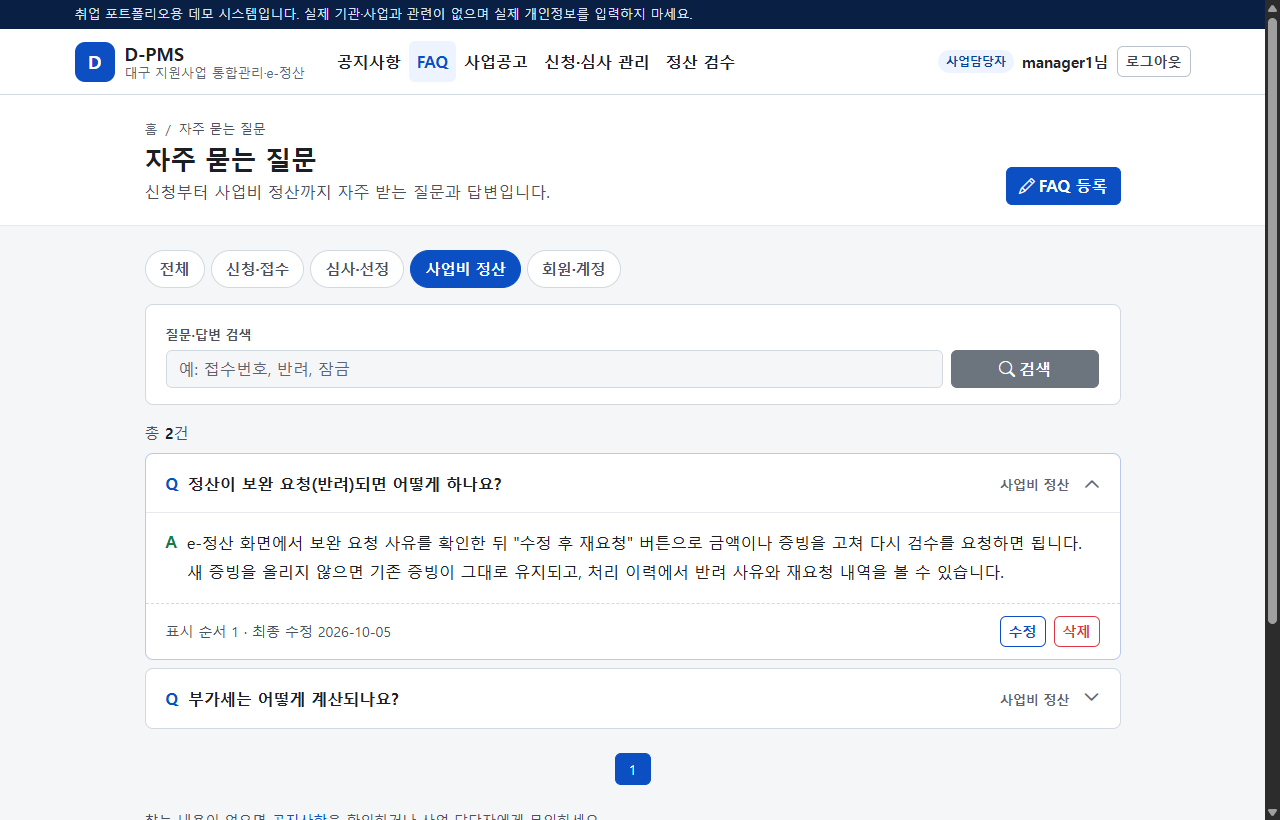
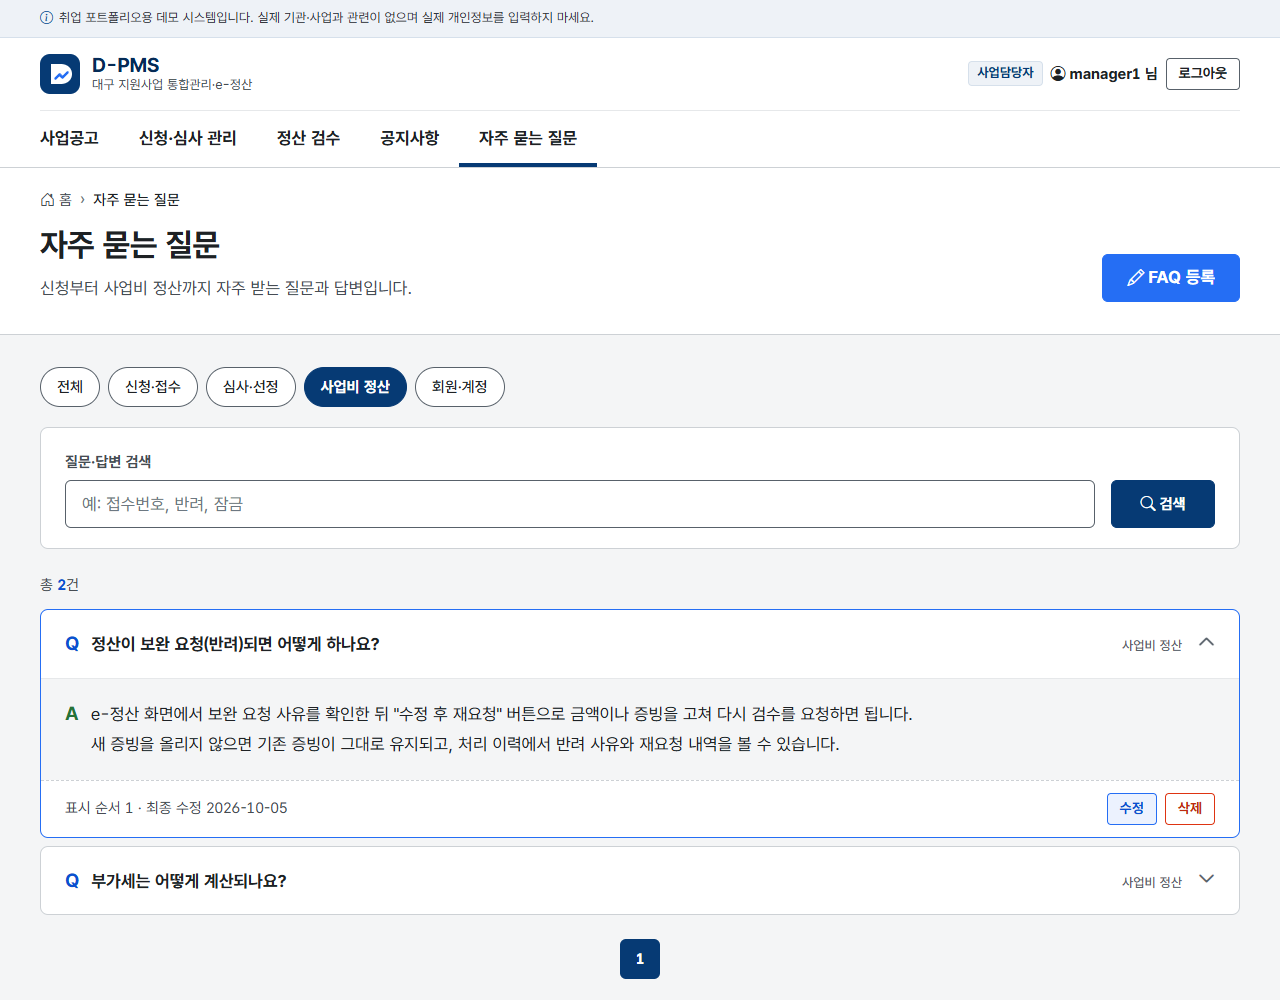
docs: 7차 스프린트 문서와 README·CHANGELOG 최신화 (0.7.0)
- SPRINT7 문서: KRDS 토큰 적용 방식(원본 값 → 용도 이름 → Bootstrap 변수), 글꼴 출처·라이선스, 모바일 카드형 원리, 정적 리소스 캐시, 명도 대비 수치, 검증 결과
- README: 새 화면 캡처 4장과 모바일 캡처, 화면 기준·출처 표기, 테스트 156건, 문서 목록
- CHANGELOG 0.7.0, 버전 0.7.0-SNAPSHOT
- dpms.css 주석의 이전 포커스 대비 값을 계산값(1.7:1)으로 정정

diff --git a/src/main/resources/static/css/dpms.css b/src/main/resources/static/css/dpms.css
@@ -220,7 +220,7 @@ a {
     color: #fff;
 }
 
-/* 포커스 표시: 흰 배경 대비 6:1 이상인 진한 파랑. 이전의 노란색(#ffb800)은 흰 배경에서 1.9:1 이라 잘 보이지 않았다 */
+/* 포커스 표시: 흰 배경 대비 6.8:1 인 진한 파랑. 이전의 노란색(#ffb800)은 흰 배경에서 1.7:1 이라 잘 보이지 않았다 */
 :focus-visible,
 .btn:focus-visible,
 .form-check-input:focus-visible,

diff --git a/docs/SPRINT7_DESIGN_RENEWAL.md b/docs/SPRINT7_DESIGN_RENEWAL.md
@@ -1,0 +1,143 @@
+# 7차 스프린트 — 화면 디자인 개편 (KRDS 기준)
+
+작업일: 2026-10-23 · 브랜치: `feature/sprint7-design-renewal` · 이전 문서: [6차 스프린트](SPRINT6_MYSQL_COMMON_COMPONENTS.md)
+
+## 1. 범위
+
+6차까지는 기능과 실행환경을 다뤘고, 화면은 Bootstrap 기본 모양에 가까웠다. 실제 화면을 데스크톱·모바일로 띄워 보니 문제가 세 가지였다.
+
+1. 공공 서비스처럼 보이지 않았다. 모든 영역이 같은 흰 카드라 어디를 먼저 봐야 할지 흐렸다.
+2. CSS 에 `Pretendard GOV` 를 적어 두었지만 글꼴 파일이 없어 실제로는 맑은 고딕으로 보였다.
+3. 모바일에서 목록 표가 화면 폭의 두 배였다(신청 목록 717px / 화면 350px). 상태와 버튼 칸이 화면 밖에 있었다.
+
+이번에는 KRDS(대한민국 정부 디자인 시스템) 기준으로 색·글자·컴포넌트 크기를 바꾸고, 메인·목록·상세·입력 화면을 다시 배치했다. 업무 로직·URL·DB 는 바꾸지 않았다.
+
+다크 모드·고대비 모드, 화면낭독기 실사용 점검은 이번 범위가 아니다.
+
+## 2. 바뀐 것
+
+| 영역 | 이전 | 이번 | 검증 |
+| :--- | :--- | :--- | :--- |
+| 디자인 기준 | Bootstrap 기본 + 색 일부 | KRDS 디자인 토큰 (색 단계, 본문 17px, 버튼 32·40·48·56px, 입력칸 48px) | 70장 화면 점검 |
+| 글꼴 | CSS 에만 이름 (파일 없음 → 맑은 고딕) | KRDS 배포본의 Pretendard GOV 서브셋 3종 내장 | 브라우저에서 3종 로드 확인 |
+| 헤더 | 한 줄 (로고·메뉴·사용자) | 로고 줄 + 주 메뉴 줄, 지금 메뉴 아래 4px 막대, 하위 메뉴도 `aria-current` | `currentMenuIsMarked` |
+| 메인 | 남색 배너, 숫자 카드, 도넛 차트(Chart.js) | 공고 검색창, 처리할 일·현황 카드, 진행 절차 4단계, 분야별 예산 막대 | `DashboardAndCodeIntegrationTest` |
+| 목록 | 모바일에서 표가 가로로 넘침 | 768px 미만에서 카드형, 검색 조건 초기화 버튼 | 390px 가로 넘침 0 |
+| 상세 | 항목·값 4칸 표 | 본문 + 오른쪽 요약 카드, 신청 과제 진행 단계 | 화면 점검 |
+| 입력 | 금액 숫자만 (`150000000`) | 한글 단위(`1억 5,000만원`), 한도 초과·음수 경고, 첨부 크기 안내 | 실제 입력 확인 |
+| e-정산 | 숫자 카드 4개, 반려 사유가 모바일에서 숨음 | 금액 상자 + 집행률 막대, 반려 사유·이력을 거래처 칸 안으로, 승인 확인 창 | `settlementApprovalAsksConfirmation` |
+| 접근성 | 포커스 노란색 1.7:1, 입력칸 테두리 1.4:1 | 포커스 6.8:1, 입력칸 테두리 6.3:1 | 대비 계산 (7절) |
+| 정적 리소스 | 모든 응답 `no-store` → 화면마다 다시 받음 | 내용 해시 주소 + 1년 캐시 | `staticResourcesAreVersionedAndCached` |
+| 의존성 | Chart.js WebJar | 제거 | — |
+
+테스트 153건 → 156건.
+
+## 3. KRDS 를 어떻게 적용했나
+
+KRDS 는 공공 서비스용 "표준 자재 목록"에 가깝다. 이 프로젝트는 Bootstrap 이라는 골조는 그대로 두고, 색·글자 크기·버튼 높이 같은 규격만 KRDS 값으로 바꿨다.
+
+```text
+krds-uiux 1.1.0 (npm)                         dpms.css
+--krds-color-light-primary-50  #256ef4   ─▶   --krds-primary-50 ─▶ --dp-primary    ─▶ .btn-primary
+--krds-color-light-gray-60     #58616a   ─▶   --krds-gray-60    ─▶ --dp-line-input ─▶ .form-control 테두리
+button size-height-6 (4rem = 40px)       ─▶   .btn { min-height: 2.5rem }
+```
+
+- 변수는 3단이다: KRDS 원본 값(`--krds-*`) → 용도 이름(`--dp-text`, `--dp-primary`) → Bootstrap 변수(`--bs-*`). 화면 CSS 는 용도 이름만 쓴다. 색을 바꿀 때 한 곳만 고친다.
+- KRDS 는 html 글자 크기를 10px 로 두고 rem 을 쓴다(1.7rem = 17px). Bootstrap 은 16px 기준이라 px 로 환산해 옮겼다(17px = 1.0625rem).
+- KRDS HTML 컴포넌트(CSS·JS)를 통째로 쓰지 않았다. Bootstrap 과 클래스·초기화 규칙이 겹치고, 화면 템플릿 26개를 모두 다시 짜야 한다. 값(토큰)만 가져오면 기존 마크업과 테스트를 유지하면서 모양을 맞출 수 있다.
+- KRDS 의 "공식 누리집 배너"와 정부 상징은 쓰지 않았다. 이 시스템은 공식 누리집이 아니므로 데모 안내 띠를 그대로 둔다.
+- 배포본은 npm 레지스트리의 SHA-512 무결성 값과 대조한 뒤 썼다. KRDS 자료는 저작권법 제24조의2(공공저작물 자유이용)에 따라 출처를 밝히고 쓴다 → [`licenses/krds-NOTICE.txt`](../licenses/krds-NOTICE.txt), 화면 푸터, README.
+
+## 4. 글꼴
+
+| 항목 | 내용 |
+| :--- | :--- |
+| 파일 | `static/fonts/pretendard-gov/PretendardGOV-{Regular,Medium,Bold}.subset.woff2` (각 약 260KB) |
+| 출처 | KRDS 배포본의 서브셋을 고치지 않고 사용. 한글 2,780자 (완성형 2,350자 전부 포함, 프로젝트 소스에 쓰인 한글 540자 모두 있음) |
+| 라이선스 | SIL OFL 1.1 ([`licenses/pretendard-gov-OFL-1.1.txt`](../licenses/pretendard-gov-OFL-1.1.txt), 글꼴 파일 안에도 같은 정보) |
+| 불러오기 | `@font-face` + `font-display: swap`, 본문(Regular)은 `<link rel="preload">` 로 먼저 받음 |
+| 없는 글자 | 서브셋에 없는 드문 한글은 시스템 글꼴로 보인다 |
+
+CDN 을 쓰지 않은 이유는 Bootstrap 을 WebJar 로 넣은 이유와 같다. 인터넷이 막힌 망에서도 깨지지 않고, CSP `font-src 'self'` 를 그대로 둘 수 있다. 보안 설정의 비로그인 허용 경로에 `/fonts/**` 를 추가했다.
+
+## 5. 화면별
+
+### 메인
+
+- 첫 화면은 검색창(사업공고 검색어로 이동)과 바로가기. 오른쪽 카드는 로그인하면 역할별 처리할 일, 로그인 전에는 전체 현황이다.
+- 분야별 예산은 도넛 → 막대. 범주 5개의 크기 비교는 길이(막대)가 각도(도넛)보다 정확하다. 금액은 글자로 함께 쓰고 막대는 화면낭독기에서 숨긴다. 차트가 없어져 Chart.js 의존성을 뺐다.
+
+### 목록 — 모바일 카드형
+
+```html
+<td data-label="신청 지원금" class="text-end">40,000,000원</td>
+```
+
+```css
+@media (max-width: 767.98px) {
+    .table-cards > tbody > tr > td[data-label]::before { content: attr(data-label); }   /* 항목명을 앞에 */
+    .table-cards > tbody > tr > td.cell-title { order: -1; }                             /* 제목을 맨 위로 */
+}
+```
+
+HTML 은 표 하나 그대로 두고 CSS 만으로 바꾼다. PC 화면과 모바일 화면을 따로 만들지 않으므로 권한·상태 조건이 한 곳에만 있다. 신청 목록은 공고명 칸을 과제명 아래 보조 글자로 합쳐, PC 에서 과제명이 한 줄에 4~5글자씩 꺾이던 문제도 고쳤다.
+
+### 상세·입력
+
+- 본문 + 오른쪽 요약 카드 (공고: 신청 안내, 신청 과제: 진행 단계, 입력 화면: 작성 안내).
+- 진행 단계: 심사탈락은 접수·서류·심사 어느 단계에서도 올 수 있다(`ApplicationStatus`). 상태 이력이 없어 어느 단계에서 탈락했는지 알 수 없으므로, 탈락 과제는 접수완료만 완료로 표시한다.
+- 금액 안내(`data-money`): `150000000` → `1억 5,000만원`. 최대 지원금 초과, 자부담금 음수, 정산 잔액 초과는 붉은 글씨로 미리 알린다. 서버 검증은 그대로이고 화면 안내만 추가했다.
+- 작성 안내 문구는 코드와 맞췄다. 예: 공고는 등록 즉시 접수중으로 게시되고(`AnnouncementServiceImpl`), 마감은 매일 자정 배치가 처리한다(`AnnouncementCloseScheduler`).
+
+### e-정산
+
+- 금액 4개를 한 상자로 묶고 집행률 막대(승인 파랑 + 검수 대기 주황)를 붙였다.
+- 반려 사유·처리 이력을 거래처 칸 안으로 옮겼다. 이전에는 768px 미만에서 숨는 칸에 있어 모바일 사용자는 반려 이유를 볼 수 없었다.
+- 승인은 되돌릴 수 없어 확인 창을 거친다. 집행 등록 모달은 닫으면 입력값을 비운다.
+
+## 6. 정적 리소스 캐시
+
+전에는 같은 책(Bootstrap 230KB)을 화면을 옮길 때마다 서점에서 새로 산 셈이었다. 이제는 책장에 1년 꽂아 두고, 개정판이 나오면 표지 번호(해시)가 바뀌어 새 책을 산다.
+
+| | 이전 | 이후 |
+| :--- | :--- | :--- |
+| CSS·JS·글꼴 응답 | `Cache-Control: no-cache, no-store` (Spring Security 기본값) | `max-age=31536000, public` |
+| 화면에 나가는 주소 | `/css/dpms.css` | `/css/dpms-<MD5>.css` (내용이 바뀌면 주소도 바뀜) |
+| CSS 안의 글꼴 주소 | — | Spring 이 해시 주소로 바꿔 내보냄 (`CssLinkResourceTransformer`) |
+| WebJars | `/webjars/bootstrap/dist/…` | `/webjars/bootstrap/5.3.3/dist/…` (버전이 주소에 들어감) |
+| 화면(HTML) | no-store | 그대로 no-store (로그인 화면이 공용 PC 에 남지 않게) |
+
+- 설정은 `application.yml` 의 `spring.web.resources` 한 곳이다. 템플릿의 `@{/css/dpms.css}` 는 그대로 두면 Spring 이 해시 주소로 바꿔 출력한다.
+- `/favicon.svg` 는 보안 설정의 허용 경로와 주소가 같아야 해서 해시 대상에서 뺐다. 화면 로고는 `/images/logo.svg` 로 따로 둔다.
+- 로컬 프로필은 해시 계산 결과를 저장하지 않는다(`chain.cache: false`). CSS 를 고치면 바로 새 주소가 나온다.
+
+## 7. 접근성 수치
+
+WCAG 상대 휘도 공식으로 계산했다.
+
+| 대상 | 이전 | 이번 | 기준 |
+| :--- | :--- | :--- | :--- |
+| 포커스 표시 | `#ffb800` / 흰색 1.7:1 | `#0b50d0` / 흰색 6.8:1 (회색 바탕 6.3:1) | 3:1 |
+| 입력칸 테두리 | `#d3d9e1` / 흰색 1.4:1 | `#58616a` / 흰색 6.3:1 | 3:1 |
+| 주 버튼 글자 | — | 흰색 / `#256ef4` 4.55:1 | 4.5:1 |
+| 보조 글자 | — | `#464c53` / 흰색 8.7:1 | 4.5:1 |
+| 상태 배지 | — | 승인 7.0:1, 검수요청 8.4:1, 반려 8.0:1 | 4.5:1 |
+
+- 금액·첨부 안내 문구는 `aria-describedby` 로 입력칸에 연결하고 `aria-live` 로 바뀔 때 읽힌다.
+- 마감 D-day 는 화면에 `D-7`, 화면낭독기에는 "마감 7일 전"으로 읽힌다.
+- 모바일 메뉴 버튼은 아이콘만 두지 않고 "메뉴" 글자를 함께 쓴다.
+
+## 8. 검증
+
+- `./mvnw clean verify` — 156건 성공. 커밋마다 실행
+- 헤드리스 Chrome(CDP) — 35개 화면 × 1366·390px, 70장 전체 캡처. 콘솔 오류·CSP 위반·가로 넘침·라벨 없는 입력칸 0건
+- 실제 입력 확인 — 신청서 금액 안내(한글 단위, 최대 지원금 초과, 자부담금 음수), 정산 부가세·잔액 초과, 집행률 막대 16.5%·24.2%, 총점 자동 계산
+- 글꼴 — 브라우저에서 400·500·700 로드, 완성형 2,350자와 소스에 쓰인 한글 540자 포함 확인
+
+## 9. 남은 일
+
+- [ ] 다크 모드·고대비 모드 (KRDS 토큰에 고대비 값이 있음)
+- [ ] 화면낭독기(NVDA·VoiceOver) 실사용 점검, 웹 접근성 전문 진단
+- [ ] 서브셋에 없는 한글 처리 — 기업명에 드문 글자가 들어오면 시스템 글꼴로 섞여 보인다 (동적 서브셋 검토)
+- [ ] 기존 로드맵: 공지 첨부파일, 기업 회원가입, 신청서 임시저장

diff --git a/CHANGELOG.md b/CHANGELOG.md
@@ -4,6 +4,38 @@
 
 ---
 
+## [0.7.0] 7차 스프린트 — 화면 디자인 개편 (KRDS 기준) (2026-10-23)
+브랜치: `feature/sprint7-design-renewal` · 상세: [docs/SPRINT7_DESIGN_RENEWAL.md](docs/SPRINT7_DESIGN_RENEWAL.md)
+
+### 추가 (Added)
+- KRDS(대한민국 정부 디자인 시스템) 디자인 토큰을 `dpms.css` 변수로 옮김: 색 단계, 본문 17px, 버튼 높이 32·40·48·56px, 입력칸 48px (출처 표기 `licenses/krds-NOTICE.txt`)
+- Pretendard GOV 글꼴 내장 (KRDS 배포본 서브셋 400·500·700, SIL OFL 1.1)
+- 목록 화면 모바일 카드형 (768px 미만), 검색 조건 초기화 버튼
+- 메인: 공고 검색창, 역할별 처리할 일 카드, 진행 절차 4단계, 분야별 예산 막대
+- 상세 화면 오른쪽 요약 카드, 신청 과제 진행 단계, 공고 마감 D-day(업무 날짜 기준)
+- 금액 입력 한글 단위 안내(1억 5,000만원)와 최대 지원금·자부담금·정산 잔액 경고, 첨부 파일 크기 안내
+- e-정산 집행률 막대, 정산 승인 확인 창
+- 테스트 156건 (+3): 정적 리소스 해시 주소·캐시, 하위 메뉴 현재 위치, 공고 D-day, 정산 승인 확인 창
+
+### 변경 (Changed)
+- 헤더를 로고 줄 + 주 메뉴 줄로 나누고 지금 메뉴는 아래 4px 막대로 표시, 푸터를 화면 아래에 고정
+- 상세 화면의 항목·값 4칸 표 → 정보 목록(dl), 입력 화면은 구역 제목과 작성 안내
+- 신청 목록에서 공고명 칸을 과제명 아래로 합쳐 과제명이 좁아지던 문제 해결
+- e-정산 반려 사유·처리 이력·증빙을 모바일에서도 보이게 거래처 칸 안으로 이동
+- 정적 리소스(CSS·JS·글꼴·WebJars)에 내용 해시 주소와 1년 캐시. 화면(HTML)은 계속 캐시하지 않음
+- 버전 0.7.0-SNAPSHOT
+
+### 제거 (Removed)
+- Chart.js WebJar (도넛 차트를 HTML 막대로 바꿔 쓰지 않게 됨), 메인 화면 데모 계정 표 (로그인 화면 빠른 입력으로 대신)
+
+### 수정 (Fixed)
+- CSS 에 적힌 글꼴 파일이 없어 맑은 고딕으로 보이던 문제
+- 포커스 표시 대비 1.7:1 → 6.8:1, 입력칸 테두리 대비 1.4:1 → 6.3:1
+- Bootstrap 이 입력칸·모달 바탕에 페이지 배경 변수를 써서 회색으로 보이던 문제
+- 개인정보처리방침의 "메모리 DB 라 재시작하면 지워진다" 문구 (6차 MySQL 전환 뒤에도 남아 있었음), 푸터의 "표준프레임워크 5.0" 표기
+
+---
+
 ## [0.6.0] 6차 스프린트 — MySQL 전환·전자정부 공통컴포넌트 도입 (2026-10-22)
 브랜치: `feature/sprint6-common-components-mysql` · 상세: [docs/SPRINT6_MYSQL_COMMON_COMPONENTS.md](docs/SPRINT6_MYSQL_COMMON_COMPONENTS.md)
 
